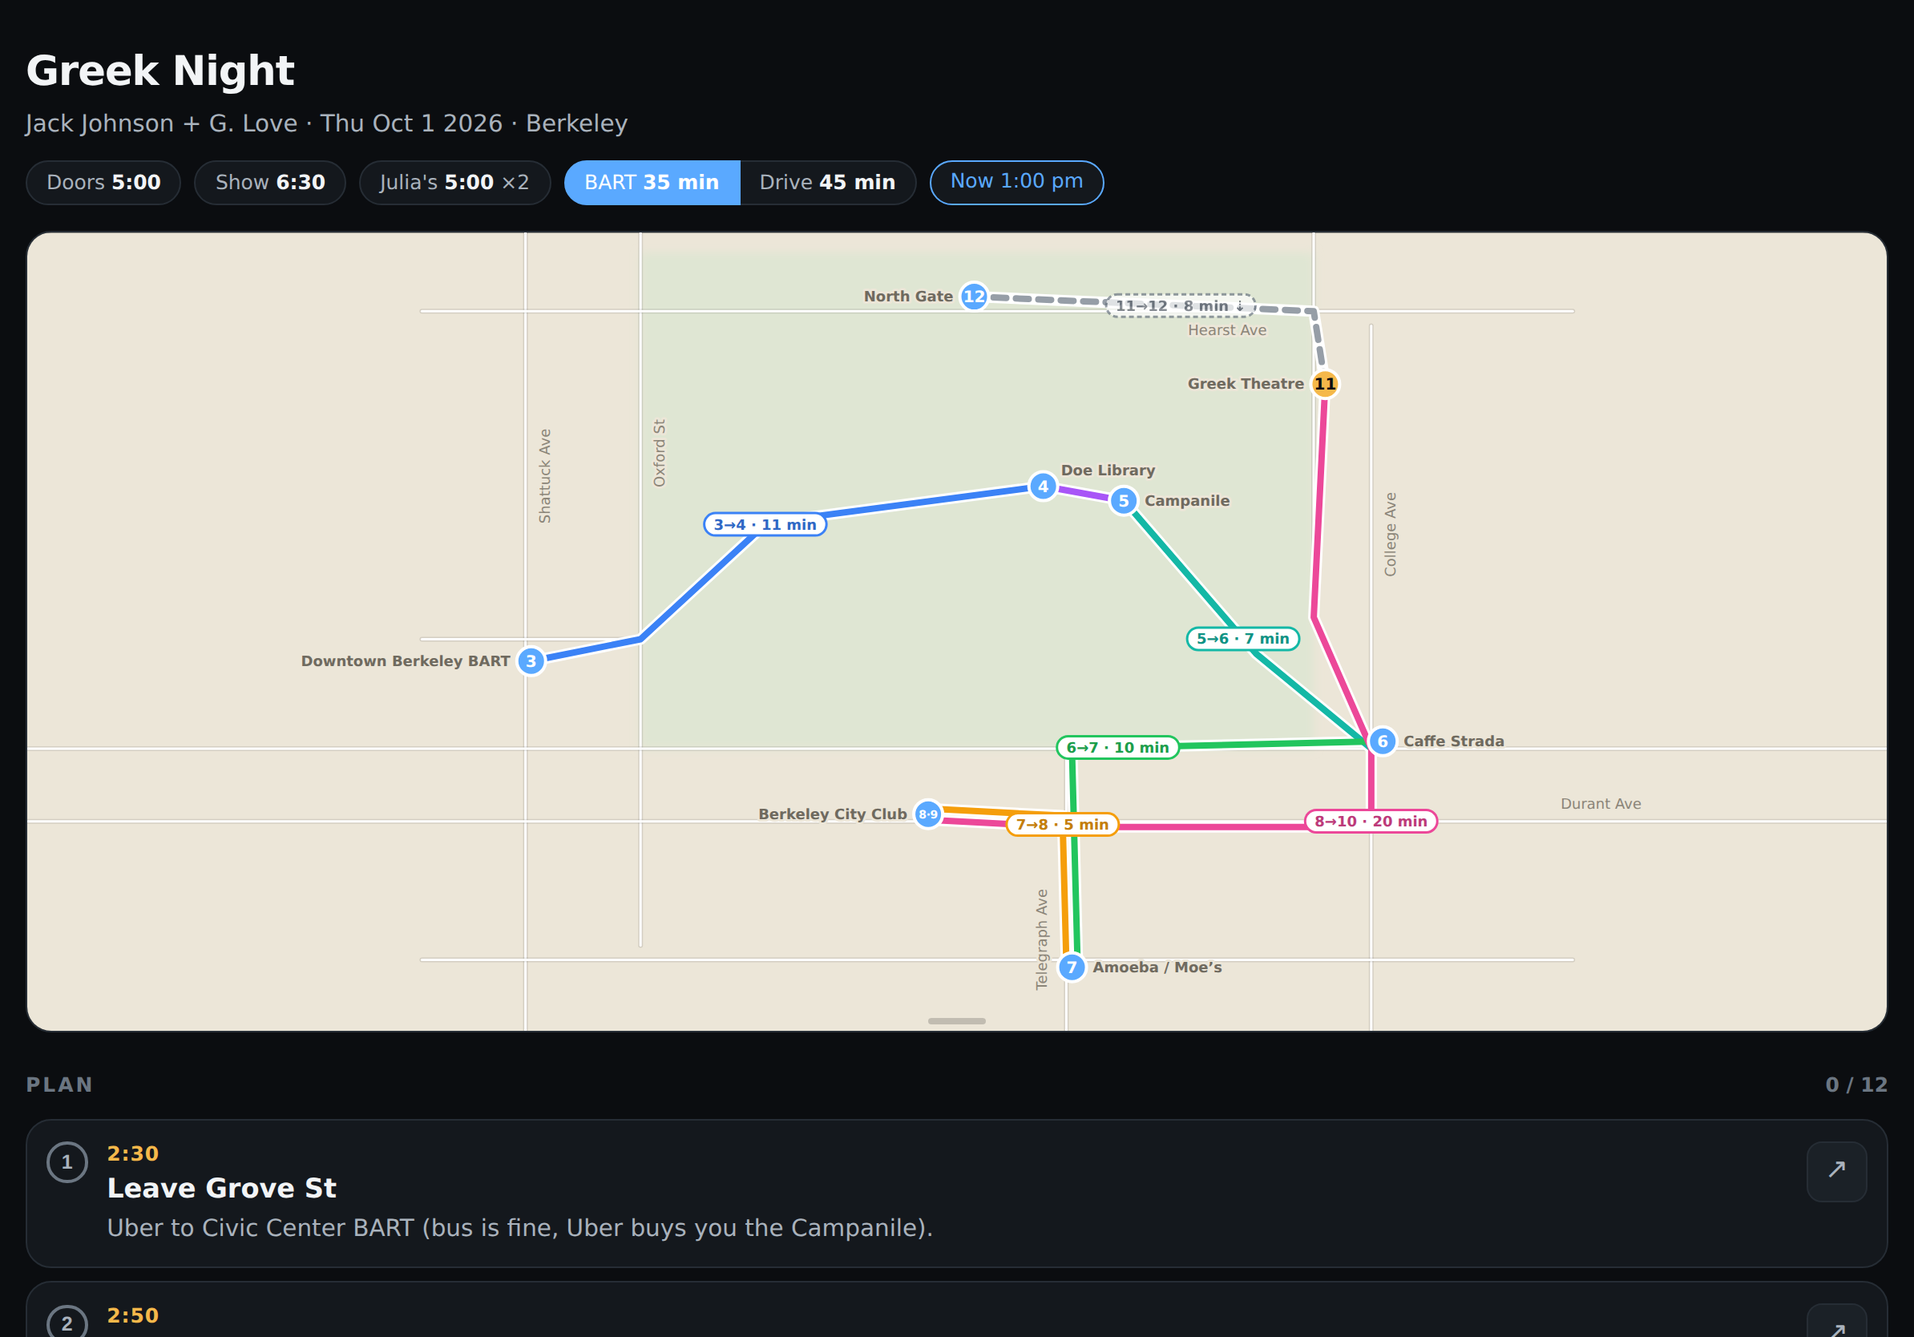
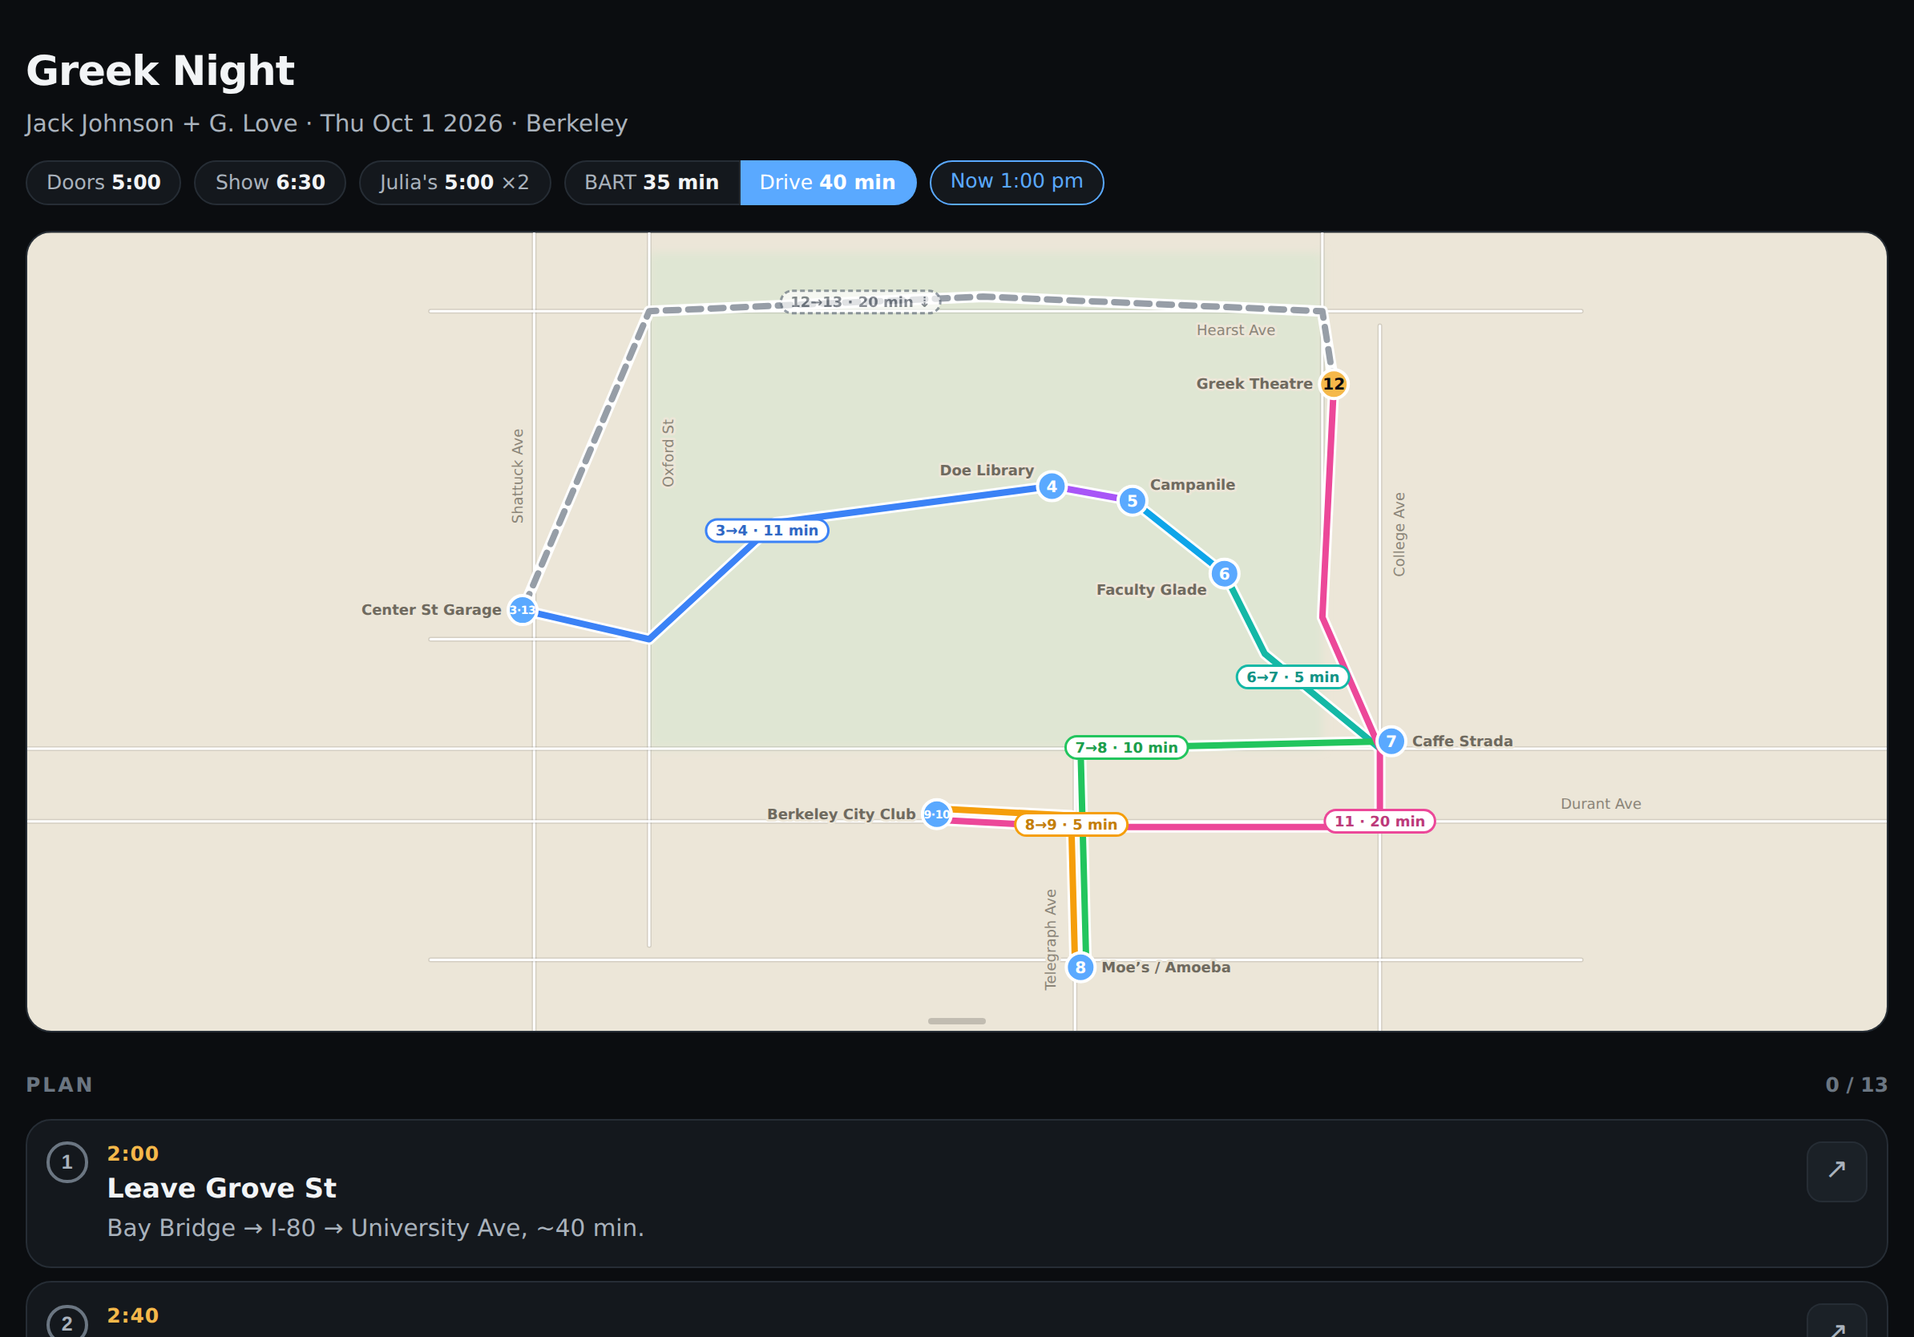
greek-night: 13-step plan with Faculty Glade, BART/Drive switch
The plan grows to 13 steps: Doe Library, the Campanile ride up, then
Faculty Glade (new pin, new sky-blue 5→6 leg), Strada, Telegraph
(Moe's / Amoeba), City Club and Julia's (9·10), the walk up (pill
"11 · 20 min"), the Greek (12) and home (13). Steps 1–3 and 13 come
from the travel mode, which now defaults to Drive: the garage pin reads
3·13 and the walk back ends there; BART keeps Downtown Berkeley BART
and North Gate. Steps 4–9 can be skipped; overrides now apply inside a
chain, so skipping 5, 6 and 7 walks Doe → Sather Gate → Telegraph.
Storage key moves to greek-night-v3.

Claude-Session: https://claude.ai/code/session_01SYEqCQ4izqiJdBAjLeUwFf

diff --git a/greek-night.html b/greek-night.html
@@ -125,7 +125,7 @@
     <span class="chip">Doors <b>5:00</b></span>
     <span class="chip">Show <b>6:30</b></span>
     <span class="chip">Julia's <b>5:00</b> ×2</span>
-    <span class="modes" role="group" aria-label="Getting there"><button type="button" class="chip seg" data-mode="bart" aria-pressed="true">BART <b>35 min</b></button><button type="button" class="chip seg" data-mode="drive" aria-pressed="false">Drive <b>45 min</b></button></span>
+    <span class="modes" role="group" aria-label="Getting there"><button type="button" class="chip seg" data-mode="bart" aria-pressed="true">BART <b>35 min</b></button><button type="button" class="chip seg" data-mode="drive" aria-pressed="false">Drive <b>40 min</b></button></span>
     <span class="chip now" id="clock"><span id="clocktime">—</span><span class="sub" id="clocksub" hidden></span></span>
   </div>
 </header>
@@ -157,20 +157,36 @@
   'use strict';
   var M = function(q){ return 'https://maps.apple.com/?q=' + encodeURIComponent(q); };
 
+  var GARAGE_MAP = M('Center Street Parking Garage 2025 Center St Berkeley');
   var PLAN = [
-    {t:'2:30', h:14, m:30, title:'Leave Grove St', note:'Uber to Civic Center BART (bus is fine, Uber buys you the Campanile).', map:M('Civic Center BART Station San Francisco')},
-    {t:'2:50', h:14, m:50, title:'Red line → Richmond', note:'Sit on the right side for the bay coming out of the tube. ~35 min.', map:M('Civic Center BART Station San Francisco')},
-    {t:'3:25', h:15, m:25, title:'Downtown Berkeley BART', note:'Exit to Shattuck, east on Center St two blocks to campus.', map:M('Downtown Berkeley BART Station')},
-    {t:'3:30', h:15, m:30, title:'Doe Library', note:'Through the west gate, straight ahead. No ID needed. North Reading Room (the vaulted one, green lamps) and Morrison Library (wood-panelled, couches, records) — both just inside the entrance. Whisper.', map:M('Doe Memorial Library UC Berkeley')},
-    {t:'3:55', h:15, m:55, title:'Campanile', note:'Elevator’s likely closed by now — the lawn at the base is the view. 10 min.', map:M('Sather Tower UC Berkeley')},
-    {t:'4:10', h:16, m:10, title:'Caffe Strada', note:'Exit campus at the SE corner (Bancroft & College). The patio under the trees. Tea or espresso.', map:M('Caffe Strada 2300 College Ave Berkeley')},
-    {t:'4:30', h:16, m:30, title:'Telegraph Ave', note:'West on Bancroft, south on Telegraph. Amoeba and Moe’s. 15 min.', map:M('Amoeba Music 2455 Telegraph Ave Berkeley')},
-    {t:'4:50', h:16, m:50, title:'Berkeley City Club', note:'North to Durant, two blocks west. Julia Morgan, 1929 — courtyard and indoor pool through the back. Julia’s is 2nd floor.', map:M('Berkeley City Club 2315 Durant Ave Berkeley')},
+    null, null, null,
+    {t:'2:55', h:14, m:55, title:'Doe Library', note:'Through the west gate, straight ahead. No ID needed. North Reading Room (the vaulted one, green lamps) and Morrison Library (wood-panelled, couches, records) — both just inside the entrance. 40 min, no clock.', map:M('Doe Memorial Library UC Berkeley')},
+    {t:'3:35', h:15, m:35, title:'Campanile — up', note:'$6, card only, open till 5. Ride up, 15 min on the deck: the bay, both bridges, the Greek below you.', map:M('Sather Tower UC Berkeley')},
+    {t:'3:55', h:15, m:55, title:'Faculty Glade', note:'Behind the tower toward College: quiet lawn under old oaks, redwoods, Strawberry Creek running through. Sit 15.', map:M('Faculty Glade UC Berkeley')},
+    {t:'4:10', h:16, m:10, title:'Caffe Strada', note:'Out the SE corner (Bancroft & College). The patio under the trees. Tea.', map:M('Caffe Strada 2300 College Ave Berkeley')},
+    {t:'4:25', h:16, m:25, title:'Telegraph Ave', note:'West on Bancroft, south on Telegraph. Moe’s Books (four floors, used) and Amoeba next door. 20 min.', map:M('Moe’s Books 2476 Telegraph Ave Berkeley')},
+    {t:'4:50', h:16, m:50, title:'Berkeley City Club', note:'North to Durant, two blocks west. Julia Morgan, 1929 — Moorish lobby, courtyard, the indoor pool. Julia’s is 2nd floor.', map:M('Berkeley City Club 2315 Durant Ave Berkeley')},
     {t:'5:00', h:17, m:0, title:'Dinner — Julia’s', note:'Table for 2. Zero-proof cocktails. Niçoise w/ trout, ratatouille, beet salad. Ask for the check by 6:10.', map:M('Julia’s Restaurant 2315 Durant Ave Berkeley')},
     {t:'6:15', h:18, m:15, title:'Walk to the Greek', note:'Durant east → College Ave north → Gayley Rd. 15 min, uphill at the end.', map:M('Greek Theatre 2001 Gayley Rd Berkeley')},
     {t:'6:35', h:18, m:35, title:'In the gate', note:'G. Love on. Jack ~8:00. Done ~10:15. GA pit — standing, front of stage. Water refill on the middle concourse.', map:M('Greek Theatre 2001 Gayley Rd Berkeley')},
-    {t:'10:15', h:22, m:15, title:'Uber from North Gate', note:'Out the north side: up Gayley to Hearst, west on Hearst to Euclid. 8 min downhill, clear of the Gayley crowd. If surge is bad keep going west to Shattuck (10 more min).', map:M('Hearst Ave & Euclid Ave Berkeley')}
+    null
   ];
+  /* Getting there and back depends on the travel mode; steps 4–12 are the same either way */
+  var MODE_ROWS = {
+    bart: {
+      0:{t:'2:00', h:14, m:0, title:'Leave Grove St', note:'Uber to Civic Center BART.', map:M('Civic Center BART Station San Francisco')},
+      1:{t:'2:20', h:14, m:20, title:'Red line → Richmond', note:'Sit on the right side for the bay. ~35 min.', map:M('Civic Center BART Station San Francisco')},
+      2:{t:'2:55', h:14, m:55, title:'Downtown Berkeley BART', note:'Exit to Shattuck, east on Center St two blocks to campus.', map:M('Downtown Berkeley BART Station')},
+      12:{t:'10:15', h:22, m:15, title:'Uber from North Gate', note:'Out the north side: up Gayley to Hearst, west on Hearst to Euclid. 8 min downhill, clear of the Gayley crowd. If surge is bad keep going west to Shattuck (10 more min).', map:M('Hearst Ave & Euclid Ave Berkeley')}
+    },
+    drive: {
+      0:{t:'2:00', h:14, m:0, title:'Leave Grove St', note:'Bay Bridge → I-80 → University Ave, ~40 min.', map:GARAGE_MAP},
+      1:{t:'2:40', h:14, m:40, title:'Park · Center St Garage', note:'2025 Center St, enter from Center. $25 for the day, exit by 1 am. 20 EV spots — plug in.', map:GARAGE_MAP},
+      2:{t:'2:50', h:14, m:50, title:'Walk from the garage', note:'Out onto Center St, east two blocks to campus.', map:GARAGE_MAP},
+      12:{t:'10:15', h:22, m:15, title:'Back to the car', note:'Out the north side: Gayley → Hearst west → Oxford south → Center. 15 min downhill, clear of the Gayley crowd.', map:GARAGE_MAP}
+    }
+  };
+  var MODE_STEPS = [0, 1, 2, 12];
 
   var BRING = [
     'Hoodie / jacket — mid-50s after dark',
@@ -182,7 +198,7 @@
     'Phone charged · Clipper in Wallet · tickets in Wallet'
   ];
 
-  var KEY = 'greek-night-v2';
+  var KEY = 'greek-night-v3';
   var state = {};
   try { state = JSON.parse(localStorage.getItem(KEY) || '{}') || {}; } catch (e) { state = {}; }
   function save(){ try { localStorage.setItem(KEY, JSON.stringify(state)); } catch (e) {} }
@@ -215,25 +231,15 @@
     return el;
   }
 
-  /* Getting there and back depends on the travel mode; steps 4–11 are the same either way */
-  var GARAGE_MAP = M('Center Street Parking Garage 2025 Center St Berkeley');
-  var MODES = {
-    bart: {rows:{0:PLAN[0], 1:PLAN[1], 2:PLAN[2], 11:PLAN[11]}},
-    drive: {rows:{
-      0:{t:'2:30', h:14, m:30, title:'Leave Grove St', note:'Drive. Bay Bridge → I-80 → University Ave. ~45 min with afternoon traffic.', map:GARAGE_MAP},
-      1:{t:'3:15', h:15, m:15, title:'Park · Center St Garage', note:'2025 Center St, enter from Center. $25 for the day, exit by 1 am. 20 EV spots — plug in.', map:GARAGE_MAP},
-      2:{t:'3:25', h:15, m:25, title:'Walk from the garage', note:'Out onto Center St, east two blocks to campus.', map:GARAGE_MAP},
-      11:{t:'10:15', h:22, m:15, title:'Back to the car', note:'Out the north side: Gayley → Hearst west → Oxford south → Center. 15 min downhill, clear of the Gayley crowd.', map:GARAGE_MAP}
-    }}
-  };
-  function mode(){ return state.mode === 'drive' ? 'drive' : 'bart'; }
+  function mode(){ return state.mode === 'bart' ? 'bart' : 'drive'; }   /* Drive unless BART is picked */
+  MODE_STEPS.forEach(function(i){ PLAN[i] = MODE_ROWS[mode()][i]; });
   var rowEls = PLAN.map(function(p, i){ return planEl.appendChild(row('p' + i, p.t, p.title, p.note, p.map)); });   /* by step; the list itself reorders */
   BRING.forEach(function(b, i){ bringEl.appendChild(row('b' + i, '', b, '', '')); });
 
-  /* steps 4–8 can be skipped: a chip under the ↗ button; the row's right column stacks the two */
+  /* steps 4–9 can be skipped: a chip under the ↗ button; the row's right column stacks the two */
   function isSkipped(step){ return !!(state.skip && state.skip['p' + (step - 1)]); }
   function skipGain(i){ return (PLAN[i + 1].h * 60 + PLAN[i + 1].m) - (PLAN[i].h * 60 + PLAN[i].m); }
-  [4, 5, 6, 7, 8].forEach(function(step){
+  [4, 5, 6, 7, 8, 9].forEach(function(step){
     var r = rowEls[step - 1], a = r.querySelector('.map');
     var side = document.createElement('div'); side.className = 'side';
     r.replaceChild(side, a); side.appendChild(a);
@@ -325,40 +331,45 @@
   var SHARED = [
     {n:'Doe Library', lat:37.8723, lng:-122.2592, steps:[4]},
     {n:'Campanile', lat:37.8721, lng:-122.2578, steps:[5]},
-    {n:'Caffe Strada', lat:37.8688, lng:-122.2533, steps:[6]},
-    {n:'Amoeba / Moe’s', lat:37.8657, lng:-122.2587, steps:[7]},
-    {n:'Berkeley City Club', lat:37.8678, lng:-122.2612, steps:[8, 9]},
-    {n:'Greek Theatre', lat:37.8737, lng:-122.2543, steps:[11], greek:true}
+    {n:'Faculty Glade', lat:37.8711, lng:-122.2562, steps:[6]},
+    {n:'Caffe Strada', lat:37.8688, lng:-122.2533, steps:[7]},
+    {n:'Moe’s / Amoeba', lat:37.8657, lng:-122.2587, steps:[8]},
+    {n:'Berkeley City Club', lat:37.8678, lng:-122.2612, steps:[9, 10]},
+    {n:'Greek Theatre', lat:37.8737, lng:-122.2543, steps:[12], greek:true}
   ];
-  /* per mode: the pin step 3 starts from, the pin step 12 ends at (when it's not the same one) and the walk back */
-  MODES.bart.start = {n:'Downtown Berkeley BART', lat:37.8699, lng:-122.2681, steps:[3]};
-  MODES.bart.home = {n:'North Gate', lat:37.8749, lng:-122.2604, steps:[12], home:true};   /* the Uber home: end of the return, not on the walk out */
-  MODES.bart.back = [[37.8737, -122.2543], [37.8747, -122.2545], [37.8749, -122.2604]];   /* Greek → Gayley & Hearst → North Gate */
-  MODES.drive.start = {n:'Center St Garage', lat:37.8706, lng:-122.2684, steps:[3, 12]};
-  MODES.drive.home = null;
-  MODES.drive.back = [[37.8737, -122.2543], [37.8747, -122.2545], [37.8749, -122.2604], [37.8747, -122.2662], [37.8706, -122.2684]];   /* Greek → Hearst → Oxford → the garage */
+  /* per mode: the pin step 3 starts from, the pin step 13 ends at (when it's not the same one) and the walk back */
+  var MODES = {
+    bart: {start:{n:'Downtown Berkeley BART', lat:37.8699, lng:-122.2681, steps:[3]},
+           home:{n:'North Gate', lat:37.8749, lng:-122.2604, steps:[13], home:true},   /* the Uber home: end of the return, not on the walk out */
+           back:[[37.8737, -122.2543], [37.8747, -122.2545], [37.8749, -122.2604]]},   /* Greek → Gayley & Hearst → North Gate */
+    drive: {start:{n:'Center St Garage', lat:37.8706, lng:-122.2684, steps:[3, 13]}, home:null,
+            back:[[37.8737, -122.2543], [37.8747, -122.2545], [37.8749, -122.2604], [37.8747, -122.2662], [37.8706, -122.2684]]}   /* Greek → Hearst → Oxford → the garage */
+  };
   var PLACES = [], BACK = [];
   /* walk out, as legs between pins: the waypoints between the two; the Bancroft & College retrace is the same sidewalk */
   var LEG_WP = {
     '3-4': [[37.8702, -122.2662], [37.8718, -122.2640]],
     '4-5': [],
-    '5-6': [[37.8700, -122.2555], [37.8687, -122.2535]],
-    '6-7': [[37.8687, -122.2588]],
-    '7-8': [[37.8677, -122.2588]],
-    '8-11': [[37.8677, -122.2535], [37.8687, -122.2535], [37.8705, -122.2545]]
+    '5-6': [],
+    '6-7': [[37.8700, -122.2555], [37.8687, -122.2535]],
+    '7-8': [[37.8687, -122.2588]],
+    '8-9': [[37.8677, -122.2588]],
+    '9-12': [[37.8677, -122.2535], [37.8687, -122.2535], [37.8705, -122.2545]]
   };
-  /* a skipped pin's two legs splice into one: the waypoints from the previous live pin to the next; adjacent skips chain in order */
+  /* a skipped pin's two legs splice into one: the waypoints from the previous pin to the next; adjacent skips chain in order */
   var BYPASS = {
     4: [[37.8702, -122.2662], [37.8718, -122.2640], [37.8723, -122.2592]],
-    5: [[37.8700, -122.2555], [37.8687, -122.2535]],
-    6: [[37.8703, -122.2595], [37.8687, -122.2588]],
-    7: [[37.8687, -122.2588], [37.8687, -122.2612]],
-    8: [[37.8677, -122.2588], [37.8677, -122.2535], [37.8687, -122.2535], [37.8705, -122.2545]]
+    5: [],
+    6: [[37.8700, -122.2555], [37.8687, -122.2535]],
+    7: [[37.8700, -122.2555], [37.8687, -122.2535], [37.8687, -122.2588]],
+    8: [[37.8687, -122.2588], [37.8687, -122.2612]],
+    9: [[37.8677, -122.2588], [37.8677, -122.2535], [37.8687, -122.2535], [37.8705, -122.2545]]
   };
-  /* a gap with a better walk than its chained bypasses: skip 5 and 6 → Doe, Sather Gate, Bancroft & Telegraph, Amoeba */
-  var GAP_OVERRIDE = {'4-7': BYPASS[6]};
+  /* a better walk than the chained bypasses, from one pin to a later one with everything between skipped:
+     Campanile → Sather Gate → Telegraph when the Glade and Strada are skipped. Used inside a chain too. */
+  var GAP_OVERRIDE = {'5-8': [[37.8703, -122.2595], [37.8687, -122.2588]]};
   /* one colour per leg; a leg spliced by a skip takes the colour of the leg it starts with */
-  var LEG_COLOURS = {'3-4':'#3b82f6', '4-5':'#a855f7', '5-6':'#14b8a6', '6-7':'#22c55e', '7-8':'#f59e0b', '8-11':'#ec4899', 'ret':'#6b7682'};
+  var LEG_COLOURS = {'3-4':'#3b82f6', '4-5':'#a855f7', '5-6':'#0ea5e9', '6-7':'#14b8a6', '7-8':'#22c55e', '8-9':'#f59e0b', '9-12':'#ec4899', 'ret':'#6b7682'};
   function legColour(fromStep){
     for (var k in LEG_COLOURS) if (k.split('-')[0] === String(fromStep)) return LEG_COLOURS[k];
     return LEG_COLOURS.ret;
@@ -367,7 +378,7 @@
     var n = parseInt(hex.slice(1), 16), c = [n >> 16 & 255, n >> 8 & 255, n & 255].map(function(v){ return Math.round(v * 0.8); });
     return '#' + c.map(function(v){ return ('0' + v.toString(16)).slice(-2); }).join('');
   }
-  /* a pin stays while any of its steps is live: skip 8 and City Club remains for dinner, reading 9 */
+  /* a pin stays while any of its steps is live: skip 9 and City Club remains for dinner, reading 10 */
   function liveSteps(s){ return s.steps.filter(function(k){ return !isSkipped(k); }); }
   function livePlaces(){ return PLACES.filter(function(s){ return liveSteps(s).length > 0; }); }
   /* [name, N–S?, fixed coord, from, to, labelled]; a null end runs to the frame's edge (south / west for from, north / east for to) */
@@ -395,17 +406,22 @@
       var a = live[i - 1], b = live[i], pts = [[a.lat, a.lng]];
       var key = a.steps[0] + '-' + b.steps[0];
       var gap = PLACES.filter(function(s){ return s.steps[0] > a.steps[0] && s.steps[0] < b.steps[0]; });   /* the skipped pins between them, in order */
-      if (gap.length && GAP_OVERRIDE[key]) pts = pts.concat(GAP_OVERRIDE[key]);
-      else if (gap.length) gap.forEach(function(s){ pts = pts.concat(BYPASS[s.steps[0]]); });
-      else pts = pts.concat(LEG_WP[key] || []);
+      if (!gap.length) pts = pts.concat(LEG_WP[key] || []);
+      /* through the skipped run: at each skipped pin, the longest override from the pin before it, else its bypass */
+      for (var g = 0; g < gap.length;) {
+        var from = g ? gap[g - 1].steps[0] : a.steps[0], j = gap.length;
+        for (; j > g; j--) if (GAP_OVERRIDE[from + '-' + (j < gap.length ? gap[j] : b).steps[0]]) break;
+        if (j > g) { pts = pts.concat(GAP_OVERRIDE[from + '-' + (j < gap.length ? gap[j] : b).steps[0]]); g = j; }
+        else { pts = pts.concat(BYPASS[gap[g].steps[0]]); g++; }
+      }
       pts.push([b.lat, b.lng]);
-      /* named by the steps at each end; the climb to the Greek is step 10 */
+      /* named by the steps at each end; the climb to the Greek is step 11, so it carries just that */
       legs.push({pts:pts, mph:b.greek ? 2.5 : 3, a:a, b:b, col:legColour(a.steps[0]),
-                 name:liveSteps(a)[0] + '→' + (b.greek ? 10 : liveSteps(b)[0])});
+                 name:b.greek ? '11' : liveSteps(a)[0] + '→' + liveSteps(b)[0]});
     }
     /* the walk back out: Greek → North Gate for the Uber */
     var greek = PLACES.filter(function(s){ return s.greek; })[0], home = PLACES.filter(function(s){ return s.steps.indexOf(12) >= 0; })[0];
-    legs.push({pts:BACK, mph:3, ret:true, a:greek, b:home, col:LEG_COLOURS.ret, name:'11→12'});
+    legs.push({pts:BACK, mph:3, ret:true, a:greek, b:home, col:LEG_COLOURS.ret, name:'12→13'});
     legs.forEach(function(l){
       var m = 0;
       for (var j = 1; j < l.pts.length; j++) m += metres(l.pts[j - 1], l.pts[j]);
@@ -426,8 +442,8 @@
   /* the active mode's steps 1–3 and 12, pins and walk back */
   function applyMode(){
     var md = MODES[mode()];
-    [0, 1, 2, 11].forEach(function(i){
-      var p = PLAN[i] = md.rows[i], r = rowEls[i];
+    MODE_STEPS.forEach(function(i){
+      var p = PLAN[i] = MODE_ROWS[mode()][i], r = rowEls[i];
       r.querySelector('.time').textContent = p.t;
       r.querySelector('.title').textContent = p.title;
       r.querySelector('.map').href = p.map;
@@ -1074,7 +1090,7 @@
     var b = e.target.closest ? e.target.closest('.seg') : null;
     if (!b || b.getAttribute('data-mode') === mode()) return;
     state.mode = b.getAttribute('data-mode');
-    [0, 1, 2, 11].forEach(function(i){ delete state['p' + i]; rowEls[i].querySelector('.check').checked = false; });
+    MODE_STEPS.forEach(function(i){ delete state['p' + i]; rowEls[i].querySelector('.check').checked = false; });
     save(); applyMode(); popClose();
     VIEW = {x:0, y:0, z:1}; FIT = null;
     sizeCard(); buildMap(); lastW = svg.clientWidth + 'x' + svg.clientHeight; paint(); describe();
